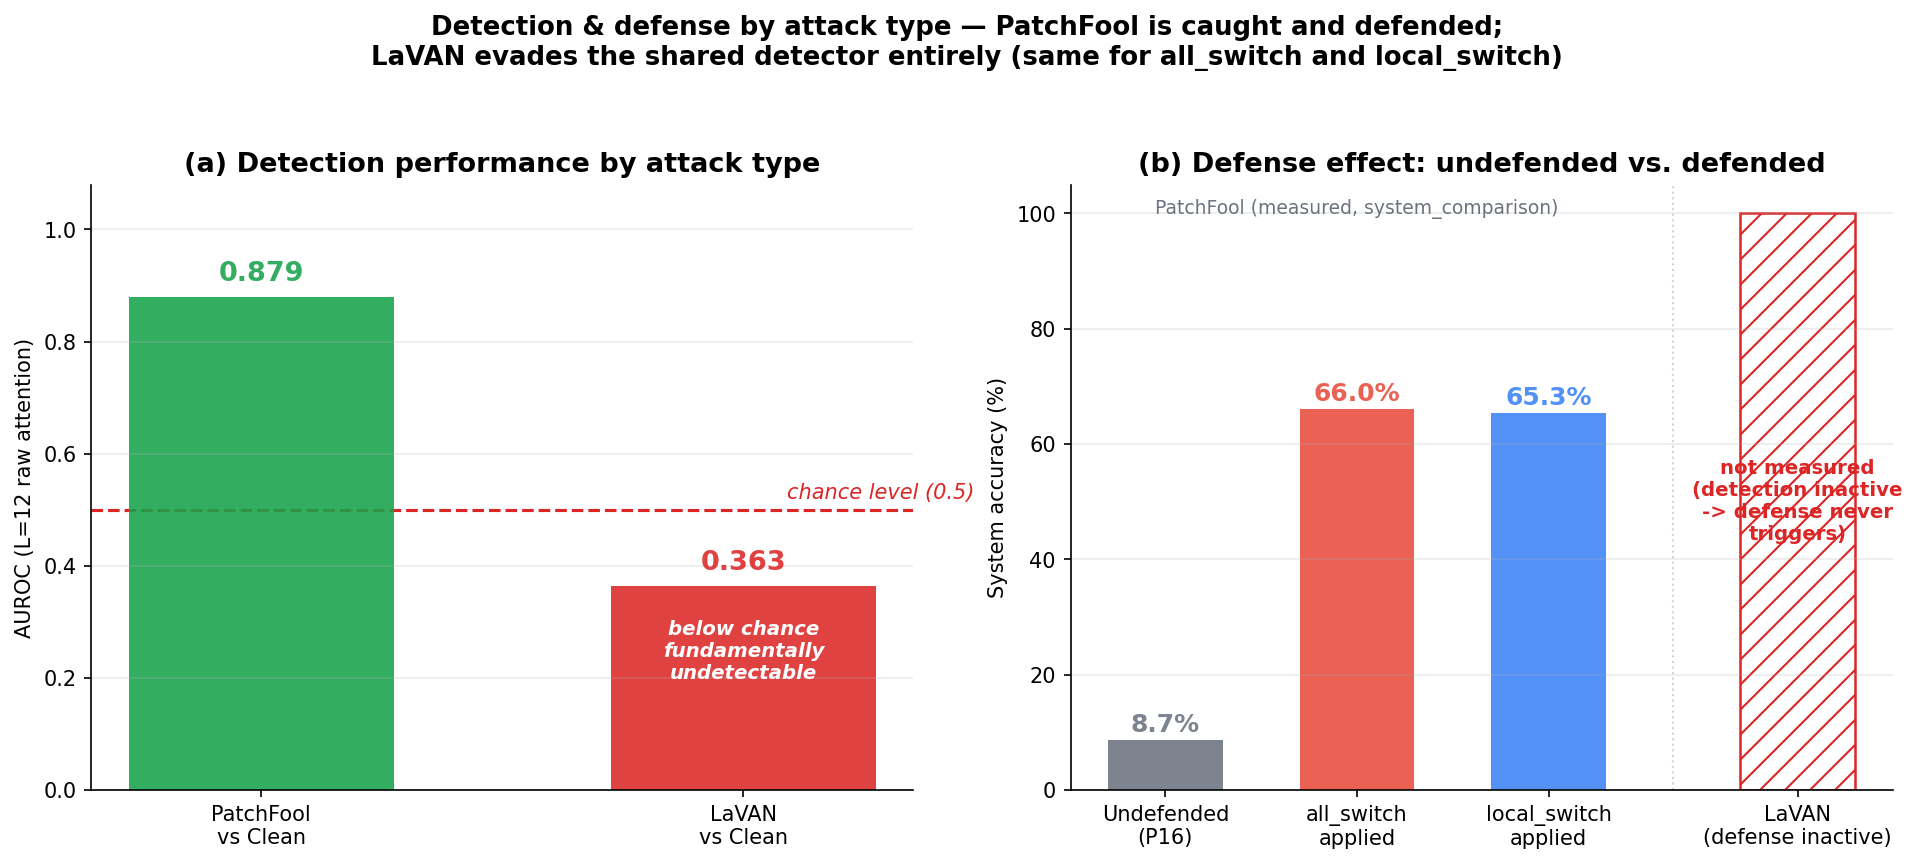
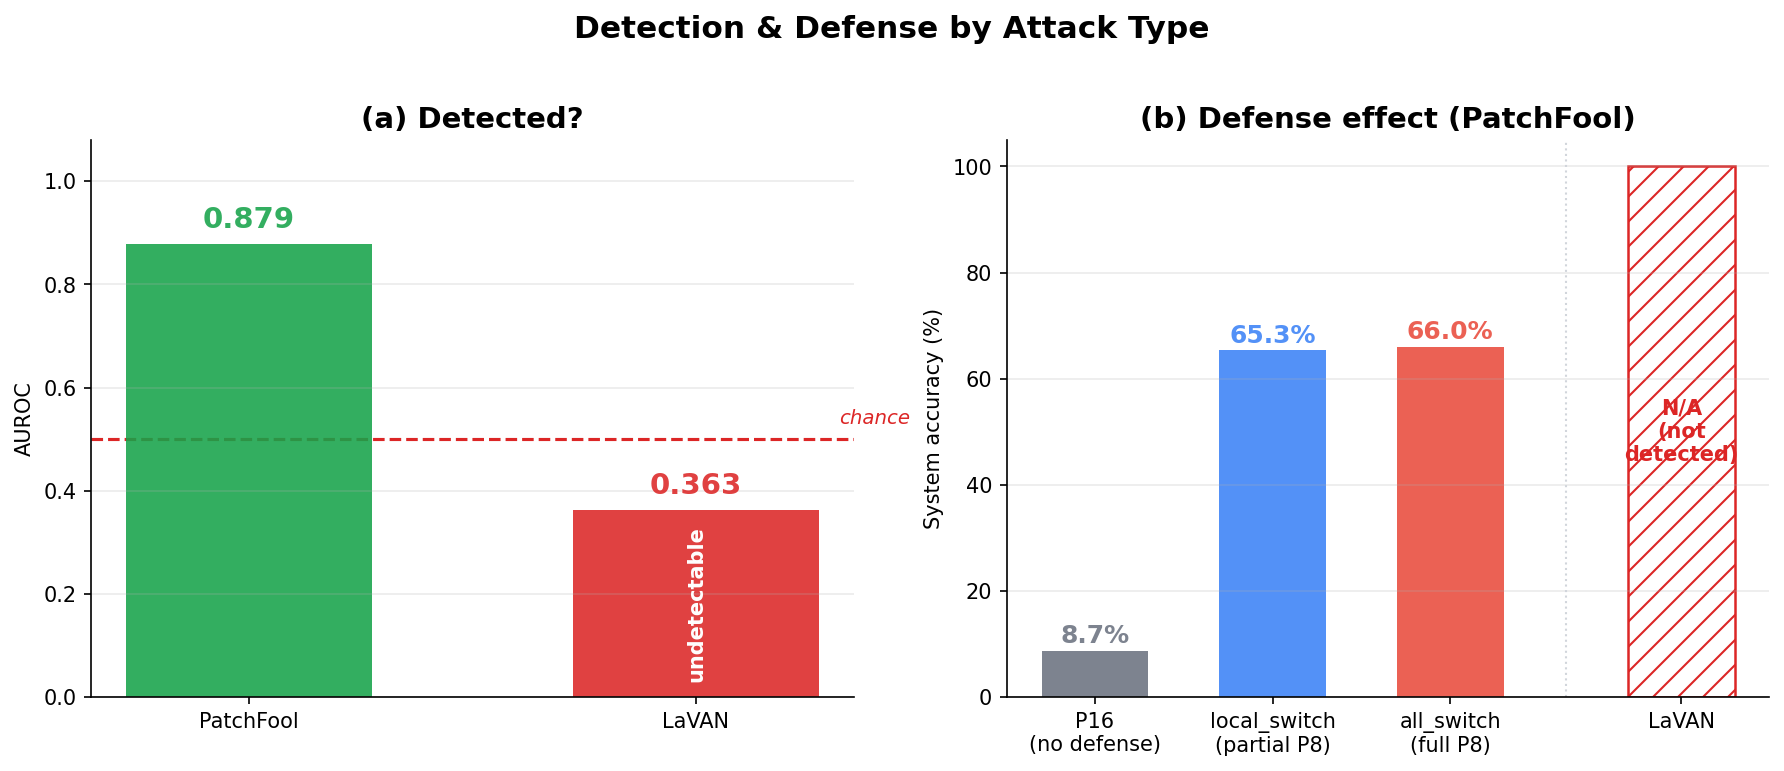
Simplify attack-type comparison figure: short titles, minimal on-chart text
Trims the suptitle and panel titles to a few words each, drops the verbose
multi-line in-chart annotations (moved to accompanying caption text
instead), and reorders panel (b) to read as an escalation ladder
(P16 -> partial-P8/local_switch -> full-P8/all_switch) rather than
all_switch-before-local_switch. Numbers and methodology are unchanged.

diff --git a/experiments/attack_type_comparison/attack_type_comparison_viz.py b/experiments/attack_type_comparison/attack_type_comparison_viz.py
@@ -62,34 +62,34 @@ def main():
     print(f"PatchFool system accuracy: P16 {p16_acc:.1f}% -> all_switch {all_acc:.1f}% / "
           f"local_switch {local_acc:.1f}%")
 
-    fig, axes = plt.subplots(1, 2, figsize=(13, 5.5))
+    fig, axes = plt.subplots(1, 2, figsize=(12, 5))
 
-    # ---- (a) Detection AUROC: PatchFool vs LaVAN, chance-level reference ----
+    # ---- (a) Detection: is the attack caught at all? (AUROC, threshold-free) ----
     ax = axes[0]
-    cats = ['PatchFool\nvs Clean', 'LaVAN\nvs Clean']
+    cats = ['PatchFool', 'LaVAN']
     vals = [auroc_pf, auroc_lavan]
     colors = [GREEN, RED_FAIL]
     bars = ax.bar(cats, vals, color=colors, alpha=0.88, width=0.55)
     ax.axhline(0.5, color=RED_FAIL, linestyle='--', linewidth=1.5, zorder=0)
-    ax.text(1.48, 0.52, 'chance level (0.5)', color=RED_FAIL, fontsize=10, ha='right', style='italic')
+    ax.text(1.48, 0.53, 'chance', color=RED_FAIL, fontsize=9.5, ha='right', style='italic')
     for bar, v in zip(bars, vals):
         ax.text(bar.get_x() + bar.get_width() / 2, v + 0.03, f'{v:.3f}', ha='center',
-                fontweight='bold', fontsize=13, color=bar.get_facecolor())
-    ax.text(1, auroc_lavan - 0.06, 'below chance\nfundamentally\nundetectable', ha='center', va='top',
-            fontsize=9.5, color='white', fontweight='bold', fontstyle='italic')
+                fontweight='bold', fontsize=14, color=bar.get_facecolor())
+    ax.text(1, auroc_lavan / 2, 'undetectable', ha='center', va='center',
+            fontsize=10, color='white', fontweight='bold', rotation=90)
     ax.set_ylim(0, 1.08)
-    ax.set_ylabel('AUROC (L=12 raw attention)')
-    ax.set_title('(a) Detection performance by attack type', fontsize=13, fontweight='bold')
+    ax.set_ylabel('AUROC')
+    ax.set_title('(a) Detected?', fontsize=14, fontweight='bold')
     ax.spines['top'].set_visible(False)
     ax.spines['right'].set_visible(False)
     ax.grid(axis='y', alpha=0.25)
 
-    # ---- (b) Defense effect: PatchFool measured, LaVAN 'not measured / same as undefended' ----
+    # ---- (b) Given an attacked image: P16 alone vs. partial-P8 vs. full-P8 ----
     ax = axes[1]
     x_pf = np.array([0, 1, 2])
-    pf_vals = [p16_acc, all_acc, local_acc]
-    pf_colors = [GRAY, RED_ALL, BLUE_LOCAL]
-    pf_labels = ['Undefended\n(P16)', 'all_switch\napplied', 'local_switch\napplied']
+    pf_vals = [p16_acc, local_acc, all_acc]
+    pf_colors = [GRAY, BLUE_LOCAL, RED_ALL]
+    pf_labels = ['P16\n(no defense)', 'local_switch\n(partial P8)', 'all_switch\n(full P8)']
     bars = ax.bar(x_pf, pf_vals, color=pf_colors, alpha=0.88, width=0.6)
     for bar, v in zip(bars, pf_vals):
         ax.text(bar.get_x() + bar.get_width() / 2, v + 1.5, f'{v:.1f}%', ha='center',
@@ -98,23 +98,20 @@ def main():
     # LaVAN: hatched placeholder instead of a bar, no fabricated number
     x_lav = 3.3
     ax.bar([x_lav], [100], width=0.6, facecolor='none', edgecolor=RED_FAIL, hatch='//', linewidth=1.2)
-    ax.text(x_lav, 50, 'not measured\n(detection inactive\n-> defense never\ntriggers)',
-            ha='center', va='center', fontsize=9.5, color=RED_FAIL, fontweight='bold')
+    ax.text(x_lav, 50, 'N/A\n(not\ndetected)', ha='center', va='center',
+            fontsize=10, color=RED_FAIL, fontweight='bold')
 
     ax.set_xticks(list(x_pf) + [x_lav])
-    ax.set_xticklabels(pf_labels + ['LaVAN\n(defense inactive)'], fontsize=10)
+    ax.set_xticklabels(pf_labels + ['LaVAN'], fontsize=10)
     ax.set_ylim(0, 105)
     ax.set_ylabel('System accuracy (%)')
-    ax.set_title('(b) Defense effect: undefended vs. defended', fontsize=13, fontweight='bold')
+    ax.set_title('(b) Defense effect (PatchFool)', fontsize=14, fontweight='bold')
     ax.spines['top'].set_visible(False)
     ax.spines['right'].set_visible(False)
     ax.grid(axis='y', alpha=0.25)
     ax.axvline(2.65, color='#D1D5DB', linewidth=1, linestyle=':')
-    ax.text(1, 100, 'PatchFool (measured, system_comparison)', ha='center', fontsize=9, color=GRAY)
 
-    fig.suptitle('Detection & defense by attack type — PatchFool is caught and defended;\n'
-                  'LaVAN evades the shared detector entirely (same for all_switch and local_switch)',
-                  fontsize=12.5, fontweight='bold', y=1.04)
+    fig.suptitle('Detection & Defense by Attack Type', fontsize=15, fontweight='bold', y=1.02)
     fig.tight_layout()
 
     os.makedirs(RESULTS, exist_ok=True)
